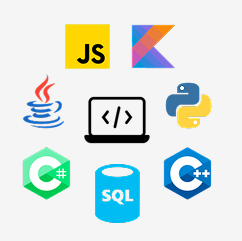
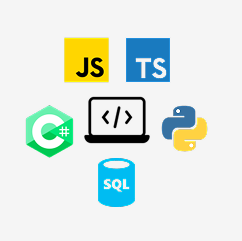
Add new image: Past Exposure.png to the public/images directory and updated website portfolio

diff --git a/src/components/Skills.jsx b/src/components/Skills.jsx
@@ -2,29 +2,30 @@ import {Link} from 'react-scroll';
 
 // Making some array of objects for card items
 const techSkills =[
-    {id: 1, name: "Programming Languages", description: "Experienced in a diverse range of programming languages, including but not limited to JavaScript, C#, Kotlin, SQL, Java, and Python.", image: "/images/Programming Languages.png"},
-    {id: 2, name: "Frameworks and Libraries", description: "Proficient in website design and development using frameworks like ASP.NET, WPF, React, Flask, Next.js, Node.js, and React Native.", image: "/images/Web Development.png"},
-    {id: 3, name: "Version Control", description: "Proficient in Git, with experience in managing GitHub projects including branches and commits.", image: "/images/Remote.png"}
+    {id: 1, name: "Programming Languages", description: "Versatile in JavaScript, TypeScript, C#, SQL, and Python —  applied across mobile, web, and data-driven academic projects.", image: "/images/Programming Languages.png"},
+    {id: 2, name: "Frameworks and Libraries", description: "Skilled in building responsive, user-friendly interfaces with React, React Native, and Next.js. Comfortable using Flask for lightweight web app logic.", image: "/images/Web Development.png"}
     ,
-    {id: 4, name: "Design Tools", description: "Proficient in Figma for interface design, prototyping, and real-time collaboration. Adept at leveraging its vector editing tools and component features to create reusable design elements that ensure visual consistency across projects.", image: "/images/figma.png"}
+    {id: 3, name: "Tools and Platforms", description: "Proficient with Git and Github for version control and collaborative workflows. Experienced in using VS Code and Figma for design and development.", image: "/images/Remote.png"}
     ,
-    {id: 5, name: "AI and Machine Learning", description: "Experienced in developing projects utilizing NLP models and pipelines, leveraging community libraries such as Hugging Face.", image:"/images/HuggingFace.png"},
-    {id: 6, name: "Databases", description:"Skilled in managing and optimizing databases, with experience in SQLite, PostgreSQL, MySQL, and Microsoft SQL Server.", image: "/images/Database.png"}
-    
+    {id: 4, name: "Databases", description:"Familiar with integrating and querying relational databases like SQLite, MySQL, and MS SQL in project-based environments.", image: "/images/Database.png"}
+    ,
+    {id: 5, name: "Other Technologies", description: "Hands-on with REST API integration and exploratory use of Hugging Face for NLP-based prototypes. Emphasis on clean, accessible, and scalable UI design.", image: "/images/Other.png"}
+    ,
+    {id: 6, name: "Previous Exposure", description: "Introductory experience with ASP.NET (MVC) and WPF from academic projects, supporting foundational knowledge of structured programming, UI layout, and component-based design.", image:"/images/Past Exposure.png"}
 ]
 
 const softSkills = [
-    {id: 1, name: "Teamwork-Oriented", description: "With a background in hackathons and collaborative projects, I've seen firsthand how teamwork drives success and achieves meaningful goals. I value diverse perspectives from peers and focus on delivering high-quality results through cooperation and support. My aim is to contribute to a positive impact by helping the team thrive.", image:"/images/Team.png"}
+    {id: 1, name: "Teamwork-Oriented", description: "Experienced in collaborative team settings through hackathons and group projects. I value diverse input and focus on delivering quality results through mutual support and clear goals.", image:"/images/Team.png"}
     ,
-    {id: 2, name: "Active Listening", description: "Staying alert and proactive in discussions is a strength I bring to any team. I make it a priority to fully understand project and team needs before acting, which allows me to contribute effectively to collaboration and decision-making. By staying engaged, I help ensure our collective efforts are well-informed and aligned.", image:"/images/Listening.png"}
+    {id: 2, name: "Active Listening", description: "I prioritize understanding before acting. This helps me align with team expectations, contribute meaningfully to group decisions, and maintain productive communication throughout a project.", image:"/images/Listening.png"}
     ,
-    {id: 3, name: "Willingness to Learn", description: "I'm passionate about learning new tools and technologies to keep my skills sharp and relevant. Curiosity drives me to grow, not just for myself, but to bring fresh ideas and innovation to projects. This commitment supports my ability make a positive impact alongside my teammates.", image: "/images/Learning.png"}
+    {id: 3, name: "Willingness to Learn", description: "Curiosity drives me to stay up to date with tools and frameworks. I'm always eager to grow so I can bring fresh ideas and practical solutions to the table.", image: "/images/Learning.png"}
     ,
-    {id: 4, name: "Effective Communication (English & Spanish)", description: "Clear communication with both technical an non-technical audiences is something I've honed through past projects and brainstorming sessions. Being bilingual in English and Spanish enhances my ability to connect teams and stakeholders, ensuring smooth interactions and shared understanding. It's all about building bridges for better collaboration.", image:"/images/Communication.png"}
+    {id: 4, name: "Effective Communication (English & Spanish)", description: "I'm bilingual and confident communicating with both technical and non-technical audiences. Whether discussing ideas or reporting progress, I aim to foster clear and inclusive collaboration.", image:"/images/Communication.png"}
     ,
-    {id: 5, name: "Creativity", description: "I love bringing creative ideas to mobile and web development, as well as UI design, with focus on improving functionality and user experience. Innovative thinking helps me turn challenges into practical solutions, and I enjoy sharing perspectives that can spark inspiration within the team.", image: "/images/Creative.png"}
+    {id: 5, name: "Creativity", description: "I enjoy designing user-friendly solutions and bringing new ideas into UI design and fron-end projects. Creative thinking helps me enhance usability and functionality.", image: "/images/Creative.png"}
     ,
-    {id: 6, name: "Initiative", description: "I take a proactive approach to sprint requirements and seeking out ways to add value, drawing from my academic and project experiences. Consistency and impact matter to me, and I strive to support the team's goals by stepping up when opportunities arise.", image: "/images/Initiative.png"}
+    {id: 6, name: "Initiative", description: "I take initiative when it's needed — whether clarifying project goals or offering solutions. I aim to add value while staying aligned with team structure and expectations.", image: "/images/Initiative.png"}
 
 ]
 

diff --git a/src/components/About.jsx b/src/components/About.jsx
@@ -3,7 +3,7 @@ import {Link} from 'react-scroll';
 
 const About = () => {
     return (
-        <div className='lg:mx-10 mx-2' id="about">
+        <div className='lg:mx-10 mx-2 my-4' id="about">
             <div className='flex flex-col sm:flex-row md:gap-24 gap-12 items-center justify-between py-1'>
                 <div className='sm:w-1/2'>
                     <img src="images/Thinking.jpg" alt="" className='w-full sm:w-11/12' />
@@ -12,13 +12,13 @@ const About = () => {
                     <p className='text-xl font-semibold mb-5'>About Me</p>
                     <h2 className='md:text-5xl text-4xl font-bold'>Allow me to introduce myself,</h2>
                     <p className=' text-lg mt-8 md:pr-8 mb-8'>
-                    Hi, I'm <strong className="text-primary">Guillermo</strong>—a dedicated final-year programming student with a passion for creating digital experiences that are both intuitive and impactful.  
-                    Born in <strong className="text-primary">Bolivia</strong>, I’ve embraced a rich, multicultural background, having spent my childhood in the <strong className="text-primary">United States</strong> before settling in <strong className="text-primary">Canada</strong> in 2012. 
-                    My technical expertise spans in <strong className="text-primary">front-end and back-end </strong>, specializing in <strong className="text-primary">full-stack development</strong> for mobile and web applications, and I thrive in environments that push me to innovate and collaborate. 
+                    My name is <strong className="text-primary">Guillermo</strong> — a graduate in IT Programming at NSCC, passionate about user-friendly and thoughtfully designed digital experiences.  
+                    Originally from <strong className="text-primary">Bolivia</strong>, I bring a multicultural persepctive shaped by time in the <strong className="text-primary">United States</strong> and now based in <strong className="text-primary">Canada</strong> since 2012. 
+                    My strenghts lie in <strong className="text-primary">front-end development </strong>,<strong className="text-primary">UI/UX design</strong>, and creating functional mobile and web interfaces that prioritize usability and clarity. I've worked oin real-world projects through team-based challenges, hackathons, and professional work terms, where I contributed to design planniong, interface logic, and user-centered workflows.
                     <br/><br/>
-                    I take pride in a <strong className="text-primary">user-first</strong> approach to <strong className="text-primary">design and development</strong>, seamlessly blending technical proficiency and creativity. Whether through team projects, hackathons or a hands-on professional work term project, I've honed my ability to tackle <strong className="text-primary">real-world challenges </strong> with agility and insight.
-                    <br /><br/>
-                    Beyond coding, I'm continually exploring innovative ways to integrate <strong className="text-primary">emerging technologies</strong>—like AI—into projects and leverage current design trends to enhance digital interactions. I invite you to explore my portfolio and learn more about my journey, my skills, and the creative solutions I bring to the table.</p>
+                    I enjoy <strong className="text-primary">solving problems</strong> through <strong className="text-primary">clean design</strong>, <strong className="text-primary">practical code</strong> and an emphasis on <strong className="text-primary">intuitive interaction</strong>. I'm especially interested in integrating lightweight AI tools and modern web technologies to enhance everyday digital products.
+                    <br /><br/><strong className="text-primary">Thanks for stopping by — feel free to explore my work and connect.</strong>
+                    </p>
                     <Link
                         to="skills"
                         spy={true}
@@ -26,7 +26,7 @@ const About = () => {
                         smooth={true} 
                         offset={-100}                   
                     >
-                        <br/><br/>
+                        <br/>
                         <button className='btn-primary hover:drop-shadow-2xl'>Click Next</button>
                     </Link>
                     

diff --git a/src/components/Home.jsx b/src/components/Home.jsx
@@ -11,8 +11,8 @@ const Home = () => {
 
           <div className="md:w-1/2 w-full mt-5">
               <h2 className="text-2xl text-headingColor font-semibold mb-5">Hello, I'm Guillermo Jimenez Iriarte</h2>
-              <h1 className="md:text-6xl text-4xl font-bold text-headingColor leading-snug md:leading-[76px] mb-5">I'm a Graduating <span className="text-primary">IT Programming Student </span> at NSCC</h1>
-              <p className="text-body text-2xl leading-9 mb-8">I specialize in <span className="text-primary"><strong>Full-Stack Development</strong></span>, focusing on <span className="text-primary"><strong>Intuitive, Innovative Solutions</strong></span>. Welcome to my portfolio!</p>
+              <h1 className="md:text-6xl text-4xl font-bold text-headingColor leading-snug md:leading-[76px] mb-5">I'm an <span className="text-primary">IT Programming Graduate </span> from Nova Scotia Community College (NSCC)</h1>
+              <p className="text-body text-2xl leading-9 mb-8">I build efficient, user-friendly <span className="text-primary"><strong>web and mobile experiences </strong></span>using <span className="text-primary"><strong>modern tools </strong></span> and a <span className="text-primary"><strong>clear development approach</strong></span>. Welcome to my portfolio!</p>
               {/* social icons */}
               <div className="flex items-center gap-4">
                   <a href="https://www.linkedin.com/in/guillermo-jimenez-iriarte/" target="_blank">
